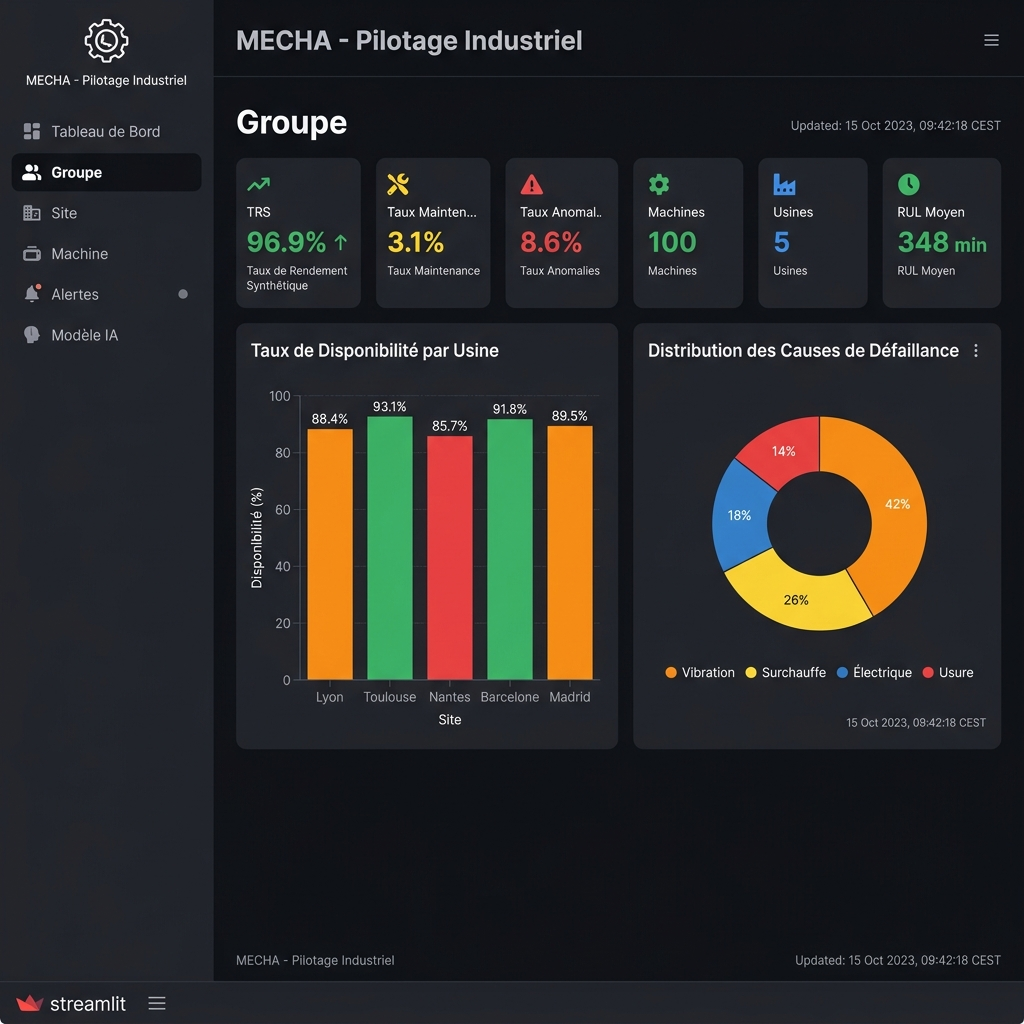
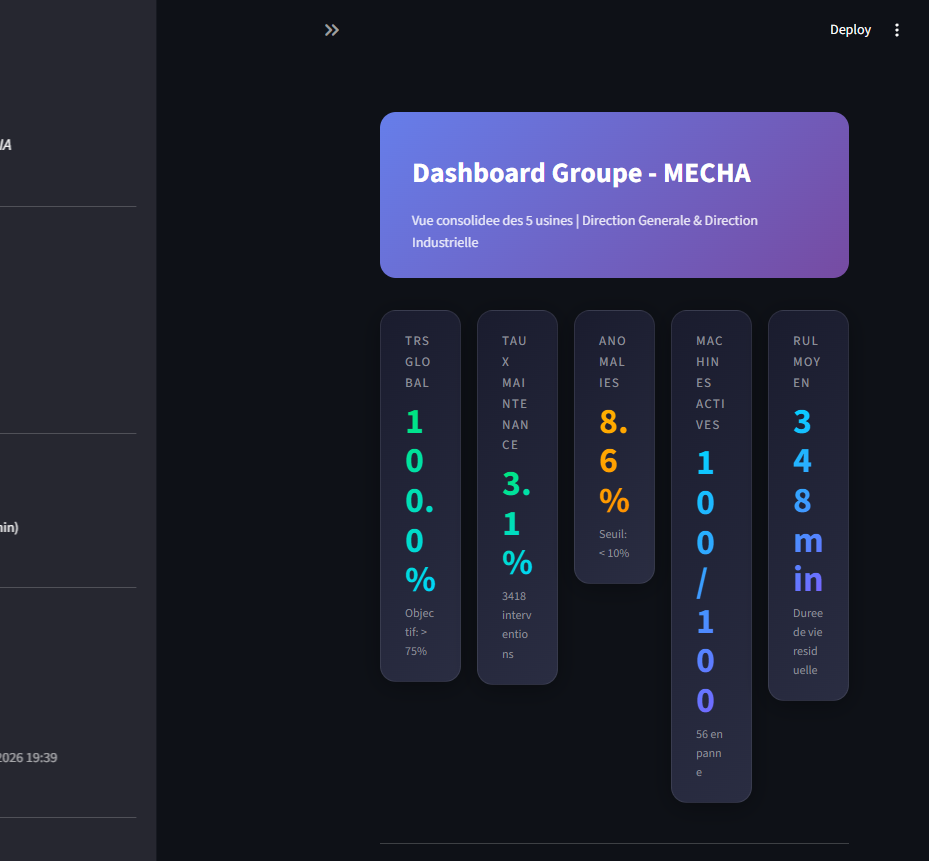
feat: vrais screenshots navigateur (remplace images IA generees)
- 6 screenshots reels via Chrome: API docs, health, Streamlit, 3x Grafana
- Suppression des images generees par IA (api_swagger, architecture, grafana_dashboard)
- README mis a jour avec les 6 screenshots + sections Grafana par role

diff --git a/README.md b/README.md
@@ -29,10 +29,6 @@
 
 ## 🏗 Architecture
 
-<p align="center">
-  <img src="docs/images/architecture.png" alt="Architecture MECHA" width="800">
-</p>
-
 | Service | Technologie | Port | Description |
 |---------|------------|------|-------------|
 | **API** | FastAPI | `8000` | API REST de prédiction ML (9 endpoints) |
@@ -51,12 +47,27 @@
 
 ### API FastAPI — Documentation Swagger
 <p align="center">
-  <img src="docs/images/api_swagger.png" alt="API Swagger" width="800">
+  <img src="docs/images/api_docs.png" alt="API Swagger" width="800">
 </p>
 
-### Grafana — Dashboard Direction Générale
+### API — Health Check
 <p align="center">
-  <img src="docs/images/grafana_dashboard.png" alt="Grafana Dashboard" width="800">
+  <img src="docs/images/api_health.png" alt="API Health" width="800">
+</p>
+
+### Grafana — Direction Générale (DG Groupe)
+<p align="center">
+  <img src="docs/images/grafana_dg.png" alt="Grafana DG Groupe" width="800">
+</p>
+
+### Grafana — Directeur d'Usine
+<p align="center">
+  <img src="docs/images/grafana_usine.png" alt="Grafana Directeur Usine" width="800">
+</p>
+
+### Grafana — Technicien Maintenance
+<p align="center">
+  <img src="docs/images/grafana_technicien.png" alt="Grafana Technicien" width="800">
 </p>
 
 ---
